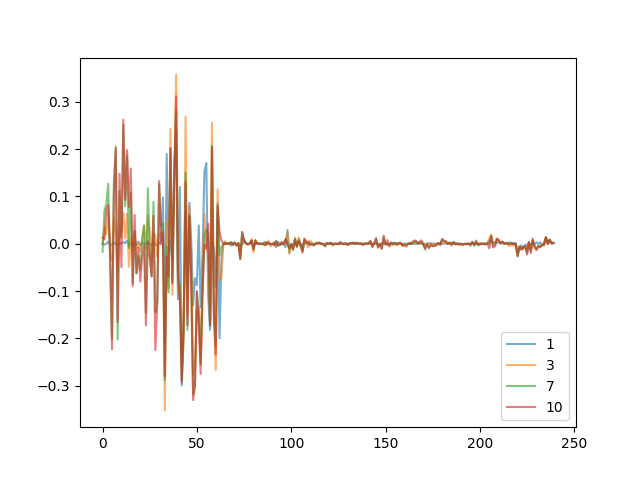
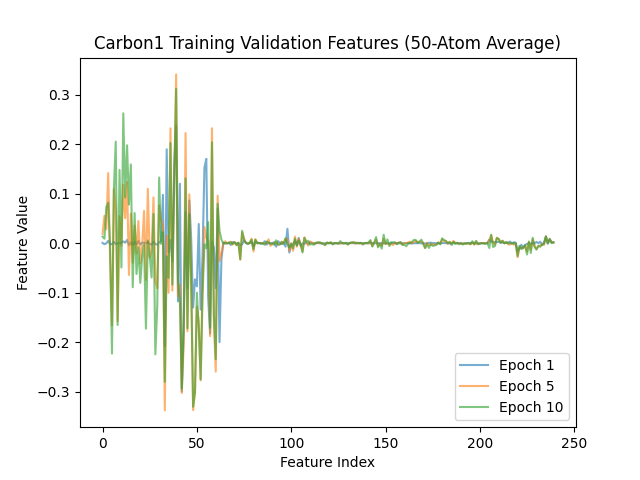
fix carbon1 many epoch line plot

diff --git a/nequip/scripts/training_features/plot_features_per_atom.py b/nequip/scripts/training_features/plot_features_per_atom.py
@@ -48,7 +48,7 @@ atomic_numbers = [6, 6, 6, 6, 6, 6, 6, 8, 8, 8, 6, 6, 8, 1, 1, 1, 1, 1, 1, 1, 1]
 # print(avg_data_C1)
 
 data_C1_all_epochs = []
-for i in 1, 3, 7, 10:
+for i in 1, 5, 10:
     epoch_data = np.load('C:/Users/alber/nequip/nequip/scripts/training_features/feats_v_epoch' + str(i) + '.npz')
     tmp_data = np.empty((1, 240))
     for key in epoch_data.files:
@@ -61,10 +61,13 @@ for i in 1, 3, 7, 10:
 data_C1_all_epochs = np.array(data_C1_all_epochs)
 print(data_C1_all_epochs.shape)
 
-df_C1_all_epochs = pd.DataFrame(data_C1_all_epochs, index=(1, 3, 7, 10))
+df_C1_all_epochs = pd.DataFrame(data_C1_all_epochs, index=['Epoch 1', 'Epoch 5', 'Epoch 10'])
 df_C1_all_epochs = df_C1_all_epochs.transpose()
 print(df_C1_all_epochs)
 
 df_C1_all_epochs.plot(kind='line', alpha=0.6)
 plt.legend(loc='lower right')
+plt.title('Carbon1 Training Validation Features (50-Atom Average)')
+plt.xlabel('Feature Index')
+plt.ylabel('Feature Value')
 plt.show()
